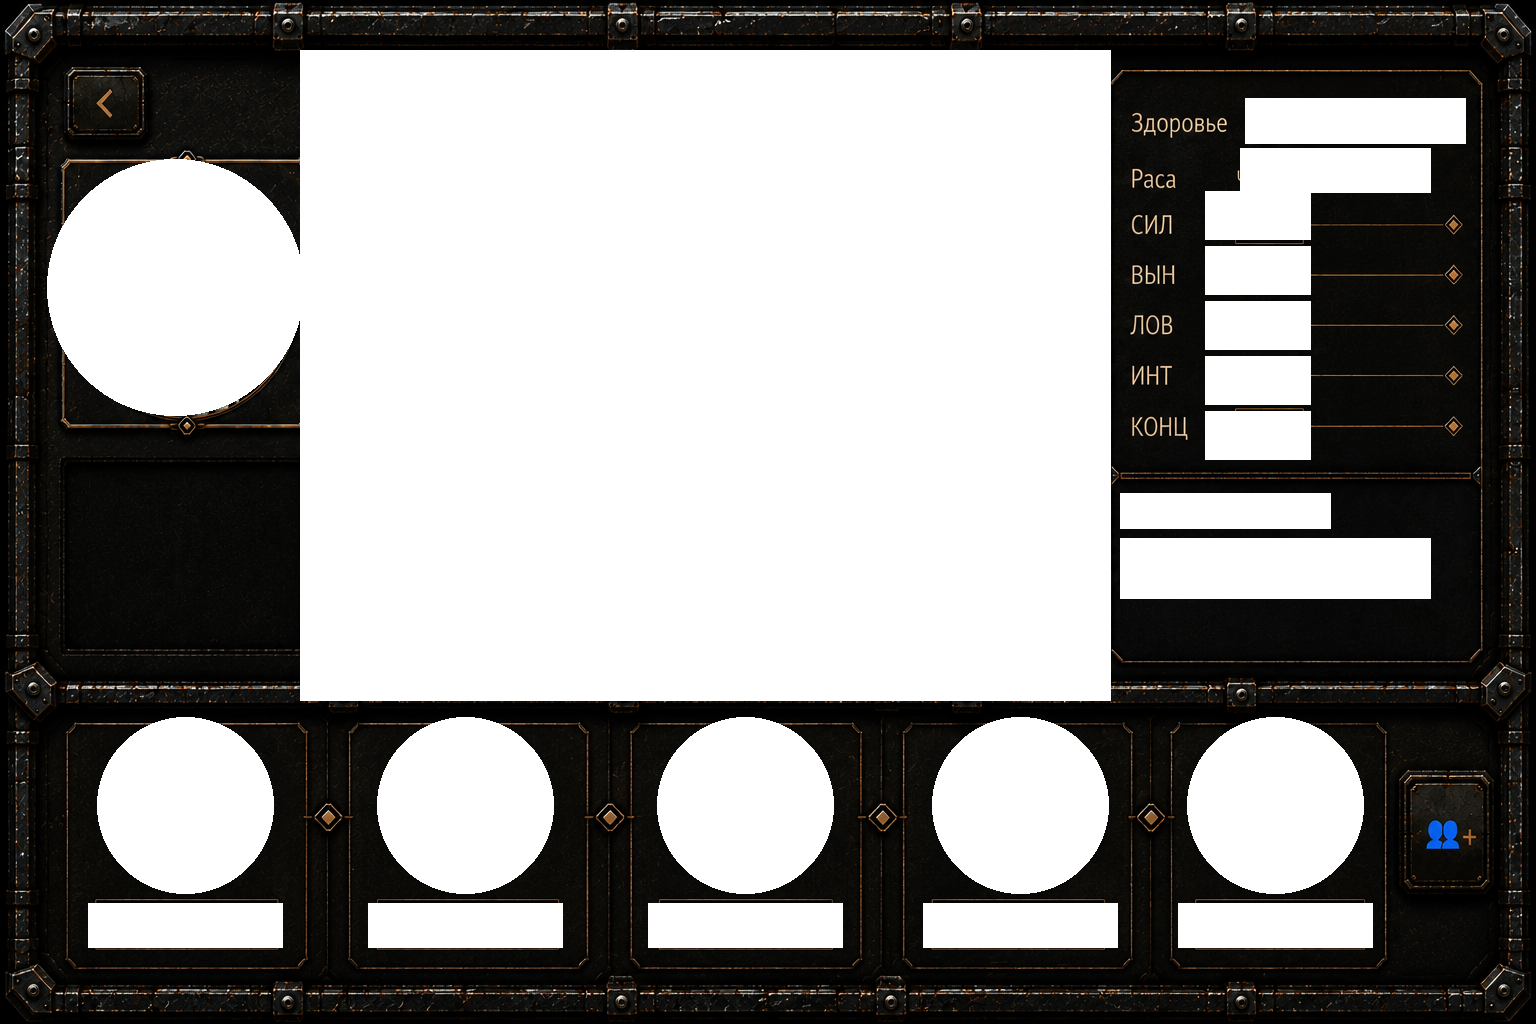
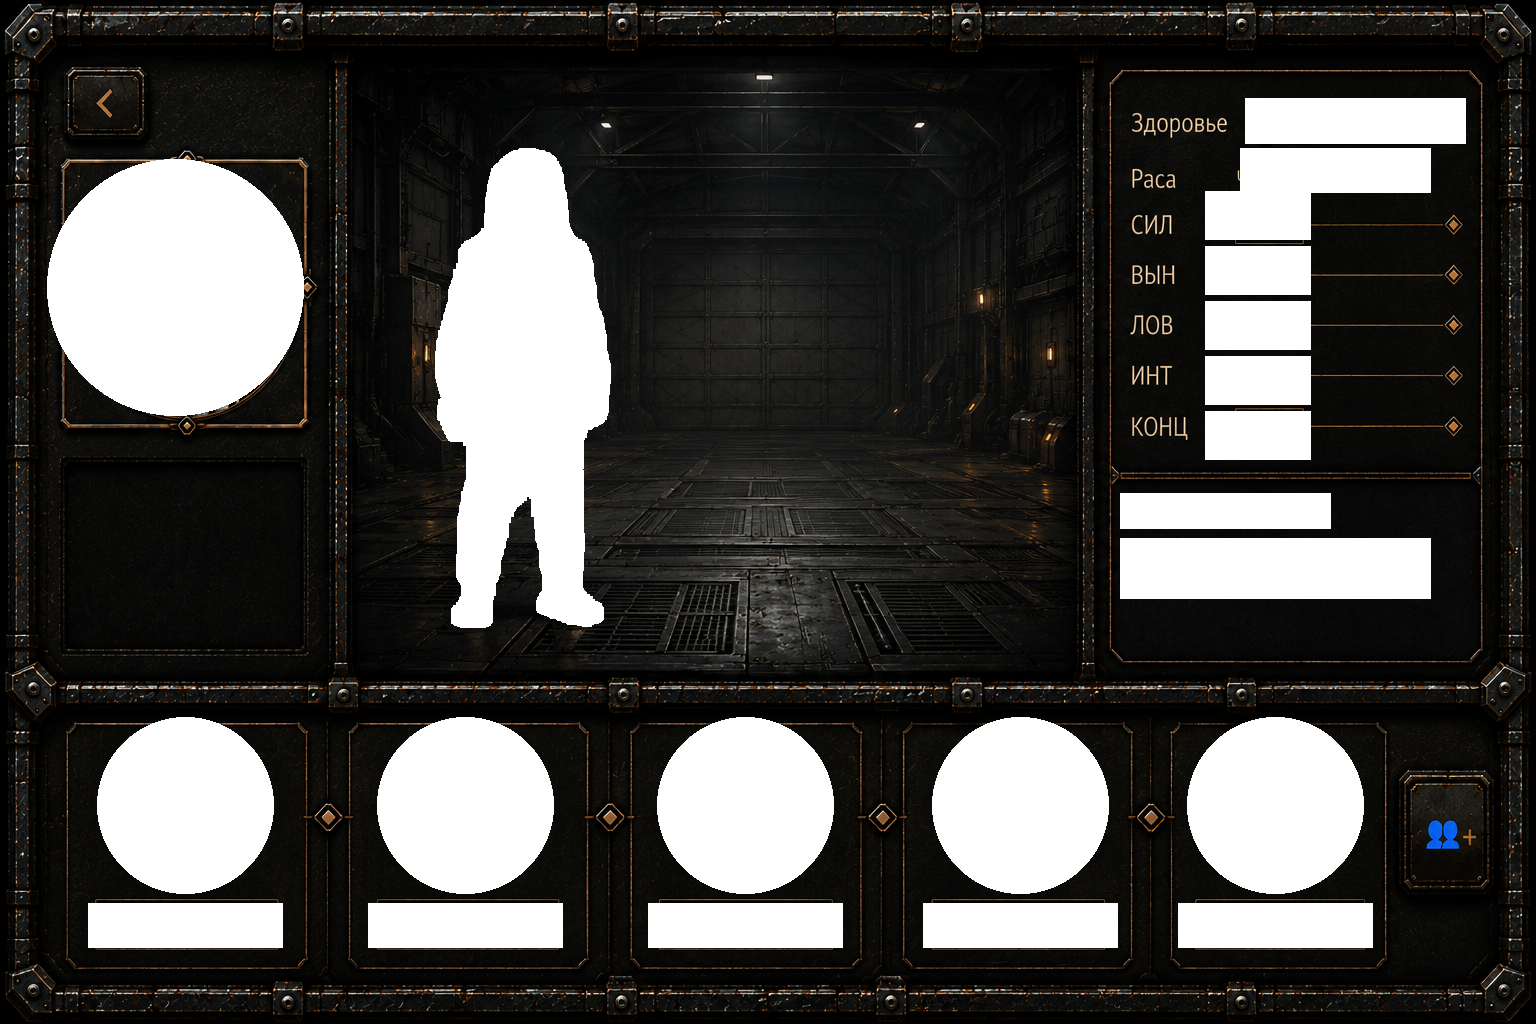
Три доводки экрана Отряд: вернул фон коридора, сдвинул героя влево, уменьшил текст способности
- Раньше я стирал под живого героя ВЕСЬ прямоугольник по центру,
  включая фоновый коридор — а нужно было стереть только силуэт самого
  персонажа, оставив коридор как задний план. Вырезал именно силуэт
  (через сегментацию + небольшое расширение маски, чтобы убрать и
  мягкую тень по краям) — теперь коридор виден, живой спрайт
  встаёт поверх него на то же место.

- Живой спрайт героя стоял по центру своей области, а в референсе он
  держится ближе к левому краю — поправил выравнивание.

- Текст описания способности был слишком крупным — уменьшил шрифт
  названия и описания.

Changed region(s): [[0.1875, 0.0312, 0.75, 0.6875]]

diff --git a/game/core/Game.js b/game/core/Game.js
@@ -5,39 +5,39 @@
 // prototype doesn't need a separate renderer module yet — everything else
 // (pathfinding, resources, temperature, rooms...) lives in its own system file.
 
-import { PathfindingSystem } from '../systems/PathfindingSystem.js?v=46';
-import { MovementSystem } from '../systems/MovementSystem.js?v=46';
-import { CharacterSystem } from '../systems/CharacterSystem.js?v=46';
-import { ConstructionSystem } from '../systems/ConstructionSystem.js?v=46';
-import { WorldSystem } from '../systems/WorldSystem.js?v=46';
-import { InventorySystem } from '../systems/InventorySystem.js?v=46';
-import { CombatSystem } from '../systems/CombatSystem.js?v=46';
-import { SquadCombatSystem } from '../systems/SquadCombatSystem.js?v=46';
+import { PathfindingSystem } from '../systems/PathfindingSystem.js?v=47';
+import { MovementSystem } from '../systems/MovementSystem.js?v=47';
+import { CharacterSystem } from '../systems/CharacterSystem.js?v=47';
+import { ConstructionSystem } from '../systems/ConstructionSystem.js?v=47';
+import { WorldSystem } from '../systems/WorldSystem.js?v=47';
+import { InventorySystem } from '../systems/InventorySystem.js?v=47';
+import { CombatSystem } from '../systems/CombatSystem.js?v=47';
+import { SquadCombatSystem } from '../systems/SquadCombatSystem.js?v=47';
 
-import { GameTime } from './GameTime.js?v=46';
-import { ResourceSystem } from './ResourceSystem.js?v=46';
-import { TemperatureSystem } from './TemperatureSystem.js?v=46';
-import { SaveSystem } from './SaveSystem.js?v=46';
+import { GameTime } from './GameTime.js?v=47';
+import { ResourceSystem } from './ResourceSystem.js?v=47';
+import { TemperatureSystem } from './TemperatureSystem.js?v=47';
+import { SaveSystem } from './SaveSystem.js?v=47';
 
-import { Character } from '../entities/Character.js?v=46';
-import { Enemy } from '../entities/Enemy.js?v=46';
-import { Item } from '../entities/Item.js?v=46';
-import { EnemySystem } from '../systems/EnemySystem.js?v=46';
-import { SkillSystem } from '../systems/SkillSystem.js?v=46';
-import { InteractionSystem } from '../systems/InteractionSystem.js?v=46';
+import { Character } from '../entities/Character.js?v=47';
+import { Enemy } from '../entities/Enemy.js?v=47';
+import { Item } from '../entities/Item.js?v=47';
+import { EnemySystem } from '../systems/EnemySystem.js?v=47';
+import { SkillSystem } from '../systems/SkillSystem.js?v=47';
+import { InteractionSystem } from '../systems/InteractionSystem.js?v=47';
 
-import { ShelterUI } from '../ui/ShelterUI.js?v=46';
-import { LeftBarUI } from '../ui/LeftBarUI.js?v=46';
-import { CharacterMenuUI } from '../ui/CharacterMenuUI.js?v=46';
-import { ConstructionUI } from '../ui/ConstructionUI.js?v=46';
-import { CharacterRosterUI } from '../ui/CharacterRosterUI.js?v=46';
-import { PartyUI } from '../ui/PartyUI.js?v=46';
-import { InventoryUI } from '../ui/InventoryUI.js?v=46';
-import { EnemyMenuUI } from '../ui/EnemyMenuUI.js?v=46';
-import { EnemyInfoUI } from '../ui/EnemyInfoUI.js?v=46';
-import { DoorMenuUI } from '../ui/DoorMenuUI.js?v=46';
-import { showStartMenu } from '../ui/StartMenu.js?v=46';
-import { installOrientationLockRetry } from './OrientationLock.js?v=46';
+import { ShelterUI } from '../ui/ShelterUI.js?v=47';
+import { LeftBarUI } from '../ui/LeftBarUI.js?v=47';
+import { CharacterMenuUI } from '../ui/CharacterMenuUI.js?v=47';
+import { ConstructionUI } from '../ui/ConstructionUI.js?v=47';
+import { CharacterRosterUI } from '../ui/CharacterRosterUI.js?v=47';
+import { PartyUI } from '../ui/PartyUI.js?v=47';
+import { InventoryUI } from '../ui/InventoryUI.js?v=47';
+import { EnemyMenuUI } from '../ui/EnemyMenuUI.js?v=47';
+import { EnemyInfoUI } from '../ui/EnemyInfoUI.js?v=47';
+import { DoorMenuUI } from '../ui/DoorMenuUI.js?v=47';
+import { showStartMenu } from '../ui/StartMenu.js?v=47';
+import { installOrientationLockRetry } from './OrientationLock.js?v=47';
 
 const DEBUG_GRID = false; // flip to true to see the passability grid over the art
 const CHARACTER_HEIGHT_TILES = 6.2; // sprite height in grid cells — was 3.6, bumped up per feedback. Рост героев.

diff --git a/game/ui/style.css b/game/ui/style.css
@@ -778,7 +778,7 @@ button.squad-hole:disabled { cursor: default; }
   color: var(--squad-ink-dim, #a9967a);
 }
 
-.squad-centre-pose { left: 19.53%; top: 4.88%; width: 52.73%; height: 63.48%; display: flex; align-items: flex-end; justify-content: center; }
+.squad-centre-pose { left: 19.53%; top: 4.88%; width: 52.73%; height: 63.48%; display: flex; align-items: flex-end; justify-content: flex-start; padding-left: 12%; box-sizing: border-box; }
 .squad-pose-img { max-width: 100%; max-height: 100%; object-fit: contain; }
 
 /* Stat value column — one baked label each (Здоровье/Раса/СИЛ/ВЫН/ЛОВ/
@@ -805,7 +805,7 @@ button.squad-hole:disabled { cursor: default; }
   top: 48.14%;
   width: 24%;
   height: 3.42%;
-  font-size: 15px;
+  font-size: 13px;
   font-weight: bold;
   color: var(--squad-gold-bright, #f5c878);
   white-space: nowrap;
@@ -817,8 +817,8 @@ button.squad-hole:disabled { cursor: default; }
   top: 52.54%;
   width: 24%;
   height: 8%;
-  font-size: 13px;
-  line-height: 1.4;
+  font-size: 11px;
+  line-height: 1.35;
   color: var(--squad-ink, #d8c9a8);
   overflow: hidden;
 }

diff --git a/game/ui/StartMenu.js b/game/ui/StartMenu.js
@@ -4,8 +4,8 @@
 // into Game.init(), which already loads the save itself — this module only
 // decides *whether* to clear the save first, it doesn't touch game logic.
 
-import { SaveSystem } from '../core/SaveSystem.js?v=46';
-import { requestLandscapeLock } from '../core/OrientationLock.js?v=46';
+import { SaveSystem } from '../core/SaveSystem.js?v=47';
+import { requestLandscapeLock } from '../core/OrientationLock.js?v=47';
 
 export function showStartMenu(onStart) {
   const app = document.getElementById('app');

diff --git a/index.html b/index.html
@@ -6,10 +6,10 @@
   <meta name="screen-orientation" content="landscape" />
   <meta name="x5-orientation" content="landscape" />
   <title>Bunker Prototype</title>
-  <link rel="stylesheet" href="game/ui/style.css?v=46" />
+  <link rel="stylesheet" href="game/ui/style.css?v=47" />
 </head>
 <body>
   <div id="app"></div>
-  <script type="module" src="game/core/Game.js?v=46"></script>
+  <script type="module" src="game/core/Game.js?v=47"></script>
 </body>
 </html>
